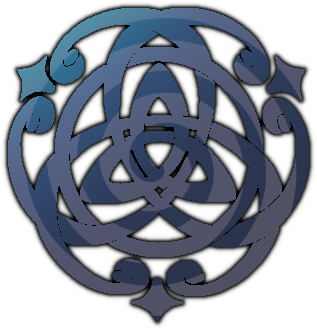
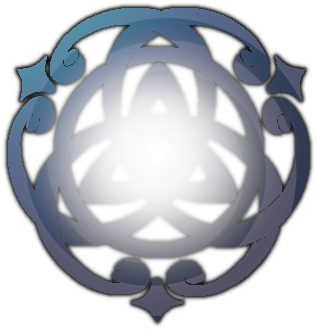
Minor adjustments to title and choices visibility

diff --git a/src/components/actionMenu/actionMenu.js b/src/components/actionMenu/actionMenu.js
@@ -40,25 +40,7 @@ class ActionMenu extends Phaser.GameObjects.Container {
           .setScrollFactor(0);
     
       
-          
-    this.titleText = scene.add.text(scene.scale.width/2,scene.scale.height/2-100, "", {
-      fontSize: "64px",
-      fontFamily:'dum1, sans-serif',
-      fill: "LavenderBlush",
-      align: "center",
-      wordWrap: { width: 600 }
-    }).setOrigin(0.5).setDepth(2600).setVisible(false).setScrollFactor(0);
-
-    // Current choice text (displayed when spinning)
-    this.choiceText = scene.add.text(scene.scale.width/2,scene.scale.height/2+100, "", {
-      fontSize: "32px",
-      fill: "LavenderBlush",
-      fontFamily:'dum1',
-      align: "center",
-      wordWrap: { width: 600 }
-    }).setOrigin(0.5).setDepth(2600).setVisible(false).setScrollFactor(0);
- 
-
+     
     // State variables
     this.isDragging = false;
     this.dragSensitivity = 0.005;
@@ -75,7 +57,7 @@ class ActionMenu extends Phaser.GameObjects.Container {
     this.choiceCounter = 0; // To keep track of current choice
     this.previousAngle = 0; // Track previous wheel angle for determining direction
     this.lastRotation = 0;  // Store last rotation for direction detection
-
+    
     // Event listeners
     this.wheel.on('pointerdown', this.startDrag.bind(this));
     this.scene.input.on('pointermove', this.dragWheel.bind(this));
@@ -93,17 +75,38 @@ class ActionMenu extends Phaser.GameObjects.Container {
     this.buttonFrame = scene.add.image(scene.scale.width / 2, scene.scale.height / 2, 'ciorcal-light')
     .setDepth(602) // Ensure it's above the base
     .setScrollFactor(0)
-    .setScale(0.5);
-    
+    .setScale(1.5);
+    this.titleHidden=false;
+    this.choicesVisible=false;
     // Make sure both elements are properly grouped
     this.buttonContainer = scene.add.container(0, 0, [this.buttonBase, this.buttonFrame])
     .setDepth(600)
     .setVisible(false)
     .setScrollFactor(0)
     .setInteractive(new Phaser.Geom.Circle(0, 0, 40), Phaser.Geom.Circle.Contains);
+       
+    this.titleText = scene.add.text(scene.scale.width/2,scene.scale.height/5, "", {
+      fontSize: "64px",
+      fontFamily:'dum1, sans-serif',
+      fill: "LavenderBlush",
+      align: "center",
+      wordWrap: { width: 600 }
+    }).setOrigin(0.5).setDepth(2600).setVisible(false).setScrollFactor(0);
+
+    // Current choice text (displayed when spinning)g
+    this.choiceText = scene.add.text(scene.scale.width/2,scene.scale.height/5, "", {
+      fontSize: "32px",
+      fill: "LavenderBlush",
+      fontFamily:'dum1',
+      align: "center",
+      wordWrap: { width: 600 }
+    }).setOrigin(0.5).setDepth(2600).setVisible(false).setScrollFactor(0);
+ 
+  
     
-    
-    this.add([this.overlay, this.wheel,this.titleText, this.buttonBase, this.buttonFrame, this.choiceText]);
+    this.add([this.overlay, this.wheel, this.buttonBase, this.buttonFrame, this.titleText,this.choiceText]);
+  
+  
   }
 
   updateChoiceDisplay() {
@@ -134,7 +137,7 @@ class ActionMenu extends Phaser.GameObjects.Container {
       
       // Create a spoke line (visual)
       const spoke = this.scene.add.line(0, 0, 0, 0, 0, -180, 0xffffff)
-        .setLineWidth(3)
+        .setLineWidth(3).setAlpha(0)
         .setRotation(angle);
       
       this.spokesContainer.add(spoke);
@@ -185,7 +188,7 @@ class ActionMenu extends Phaser.GameObjects.Container {
       .setScrollFactor(0);
 
     this.choiceText.setVisible(true)
-      .setAlpha(1)
+      .setAlpha(0)
       .setScrollFactor(0);
 
     this.overlay.setVisible(true);
@@ -240,6 +243,7 @@ class ActionMenu extends Phaser.GameObjects.Container {
   }
   
   startDrag(pointer) {
+
     this.isDragging = true;
     this.startAngle = Phaser.Math.Angle.Between(
       400, 300, // Wheel center
@@ -251,6 +255,32 @@ class ActionMenu extends Phaser.GameObjects.Container {
     
     // Reset last rotation to current rotation for accurate direction detection
     this.lastRotation = this.wheel.rotation;
+    if (!this.titleHidden) {
+      this.titleHidden = true;
+      this.scene.tweens.add({
+          targets: this.titleText,
+          alpha: 0,
+          duration: 500,
+          ease: 'Linear',
+          onComplete: () => {
+              this.titleText.setVisible(false).setActive(false); // Fully disable
+          }
+      });
+  }
+  
+  if (!this.choicesVisible) {
+      this.choicesVisible = true;
+      this.scene.tweens.add({
+          targets: this.choiceText,
+          alpha: 1,
+          duration: 500,
+          ease: 'Linear',
+          onStart: () => {
+              this.choiceText.setAlpha(0).setVisible(true).setActive(true); // Ensure visibility
+          }
+      });
+  }
+  
   }
 
   decelerateWheel() {
@@ -318,7 +348,8 @@ updateSelection() {
     this.overlay.setVisible(false);
     this.titleText.setVisible(false);
     this.wheel.setVisible(false);
-    this.button.setVisible(false);
+    this.buttonFrame.setVisible(false);
+    this.buttonBase.setVisible(false);
     this.choiceText.setVisible(false);
     this.scene.input.setTopOnly(false);
     
